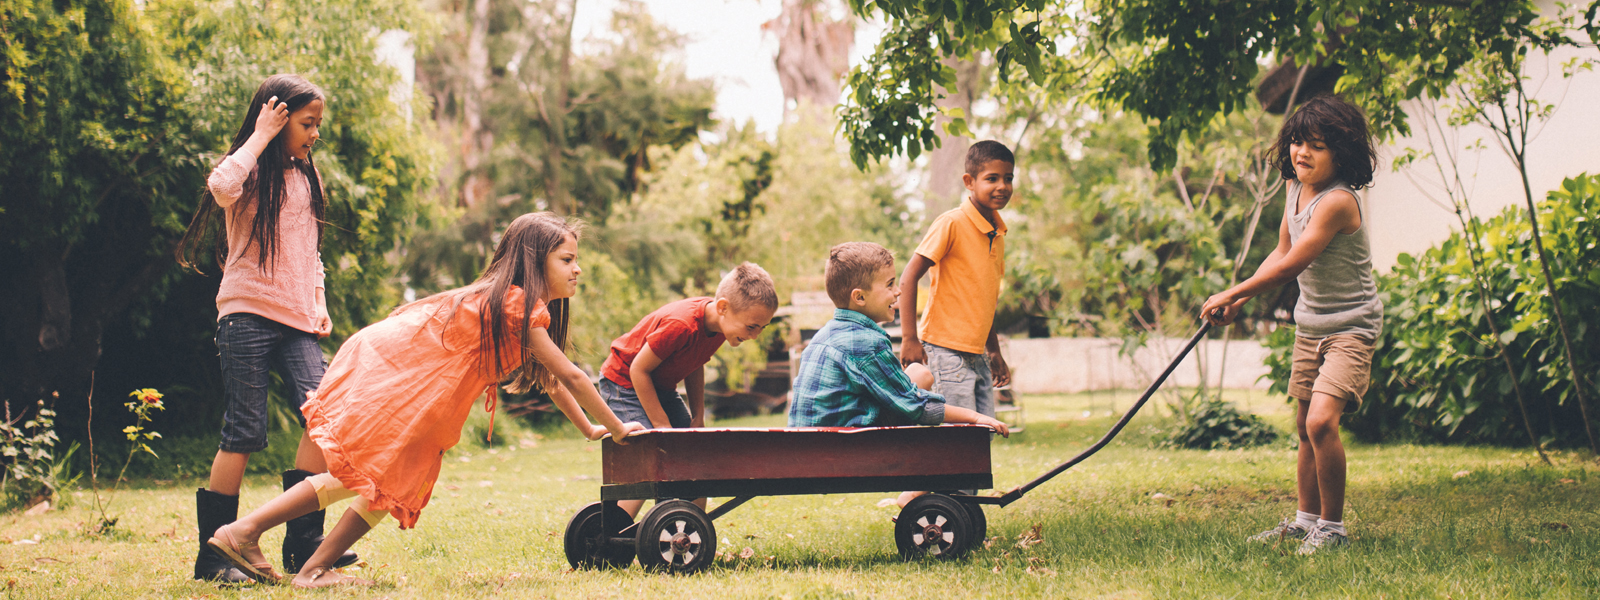
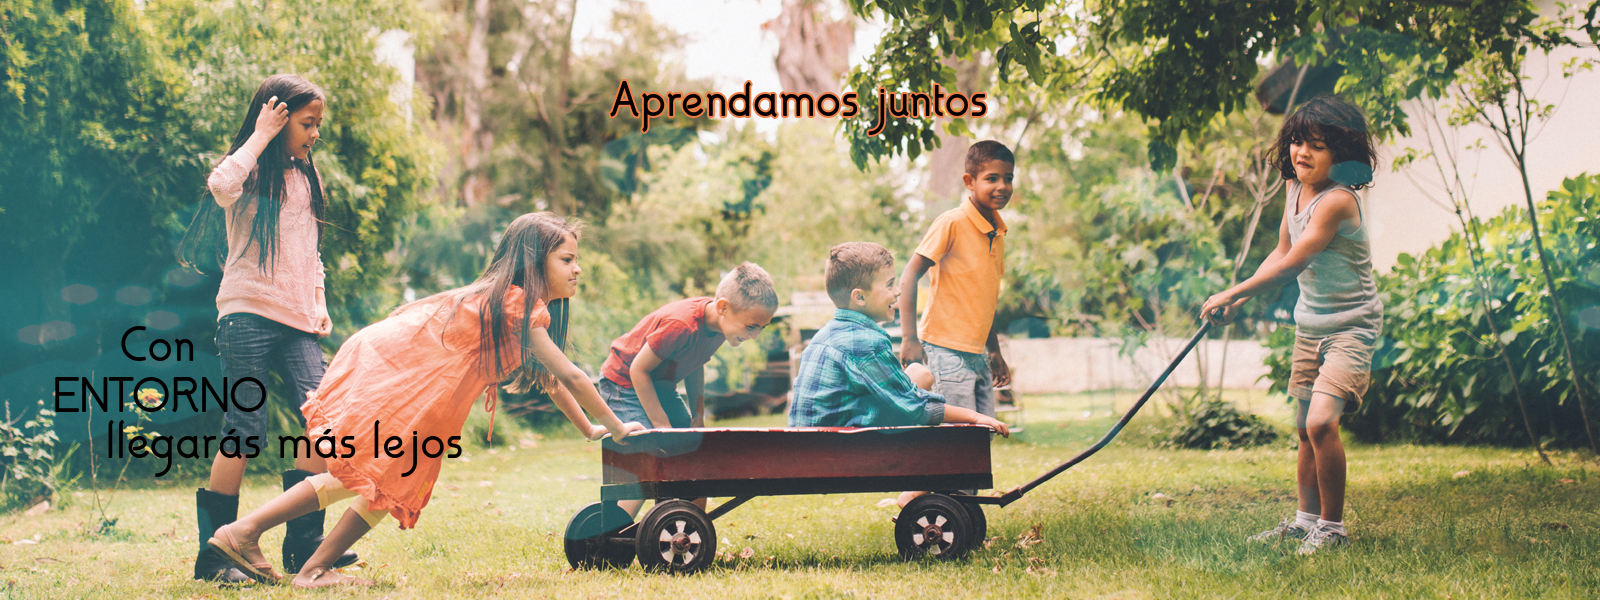
Se subela página terminada

diff --git a/startbootstrap-one-page-wonder-gh-pages/index.html b/startbootstrap-one-page-wonder-gh-pages/index.html
@@ -27,6 +27,7 @@
 <body>
   <!-- Navigation -->
   <nav class="navbar navbar-expand-lg navbar-dark navbar-custom fixed-top">
+  <!-- <nav class="navbar navbar-expand-lg navbar-dark navbar-custom fixed-top"> -->
     <div class="container">
         <img src="./img/Logos Entorno/LogoEntorno.JPG" class="navbar-brand js-scroll-trigger" href="#page-top" style="width: 60px">
       <a class="navbar-brand" href="#">Entorno</a>
@@ -63,7 +64,7 @@
           <img src="./img/imgBanner/Banner2.jpg" class="d-block w-100" alt="...">
         </div>
         <div class="carousel-item">
-          <img src="./img/imgBanner/Banner3.png" class="d-block w-100" alt="...">
+          <img src="./img/imgBanner/Banner3.jpg" class="d-block w-100" alt="...">
         </div>
       </div>
       <a class="carousel-control-prev" href="#carouselExampleIndicators" role="button" data-slide="prev">
@@ -191,9 +192,8 @@
     <br><br>
     </section>
 
-
 <!-- Ofertas de Trabajos online -->  
-  <section class="page-section text-white mb-0" id="trabajo" style="background-color:rebeccapurple;">
+  <section class="page-section text-white mb-0" id="trabajo" style="background-color:orangered;">
     <div class="container">
       <br><br>
       <h1 class="page-section-heading text-center text-uppercase text-white">Busca aquí trabajo</h1>
@@ -211,14 +211,14 @@
               desmarque una puntuación...
           </p>
           <button type="button" class="btn btn-info">
-            <div class="portfolio-item mx-auto" data-toggle="modal" data-target="#portafolioNoticia1">
+            <div class="portfolio-item mx-auto" data-toggle="modal" data-target="#ofertaTrabajo1">
               <h6>Leer más</h6>
             </div>
           </button>
           
         </div>        
       </div>
-      <br><br>
+      <br>
       <!-- Oferta 2 -->
       <div class="row">
         <div class="col-lg-3 ml-auto">
@@ -232,13 +232,13 @@
             un sitio web y la imagen para poder hacer trípticos para entrega física.
           </p>
           <button type="button" class="btn btn-info">
-            <div class="portfolio-item mx-auto" data-toggle="modal" data-target="#portafolioNoticia2">
+            <div class="portfolio-item mx-auto" data-toggle="modal" data-target="#ofertaTrabajo2">
               <h6>Leer más</h6>
             </div>
           </button>
         </div>
       </div>
-      <br><br>
+      <br>
       <!-- OFerta 3 -->
       <div class="row">
           <div class="col-lg-3 ml-auto">
@@ -252,14 +252,13 @@
               Mi empresa necesita conectar bases de datos de clientes con nuestra base de datos central. 
             </p>
             <button type="button" class="btn btn-info">
-                <div class="portfolio-item mx-auto" data-toggle="modal" data-target="#portafolioNoticia3">                
+                <div class="portfolio-item mx-auto" data-toggle="modal" data-target="#ofertaTrabajo3">                
                   <h6>Leer más</h6>
                 </div>
             </button>
           </div>
         </div>        
       </div> 
-      <br>  
       <div class="row">
         <div class="col-lg-7 ml-auto">
           <a href="#" class="btn btn-xl rounded-pill mt-5" style="background-color: #ffffff;">Más ofertas</a>
@@ -289,6 +288,139 @@
         </a>
     </div>
   </footer>
+
+  <!-- Portfolio Modals -->
+  <!-- Portafolio ofertas de trabajo -->
+
+  <!-- Modal de oferta de trabajo 1 -->
+  <div class="portfolio-modal modal fade" id="ofertaTrabajo1" tabindex="-1" role="dialog"
+    aria-labelledby="portfolioModal1Label" aria-hidden="true">
+    <div class="modal-dialog modal-xl" role="document">
+      <div class="modal-content">
+        <button type="button" class="close" data-dismiss="modal" aria-label="Close">
+          <span aria-hidden="true">
+            <i class="fas fa-times"></i>
+          </span>
+        </button>
+        <div class="modal-body text-center">
+          <div class="container">
+            <div class="row justify-content-center">
+              <br>
+              <div class="col-lg-8">
+                <!-- Portfolio Modal - Title -->
+                <h2 class="portfolio-modal-title  mb-0">Desarrollo de formulario en HTML5</h2>
+                <br>
+                <!-- Portfolio Modal - Text -->
+                <h5>
+                  Requiero un desarrollo de un formulario de evaluación con 17 ítems y 5 niveles 
+                  de puntuación para cada ítem, de manera que sea realizado un cálculo automático 
+                  cada vez que se marque o desmarque una puntuación, por lo que las puntuaciones 
+                  pueden estar con un control tipo checkbox. El formulario debe almacenar nombre, 
+                  fecha, hora, ciudad, lugar, y evaluador.
+                  <br>
+                  El objetivo es que 5 evaluadores puedan almacenar las evaluaciones de manera simultánea.
+                  <br>
+                  Se requiere una interfaz para Evaluador y otra para Administrador, donde se puedan visualizar
+                  las puntuaciones almacenadas. Las interfaces deben permitir configurar logotipos o imágenes 
+                  de un evento. Se adjunta una imagen del formulario como una aplicación de Windows.
+                </h5>
+                <br>
+                <h5><strong>Habilidades:</strong> Angular.js, node.js, HTML5, Javascript, NoSQL Couch y Mongo</h5>
+                <br>
+                <button class="btn btn-info">ofertar</button>
+              </div>
+            </div>
+          </div>
+        </div>
+      </div>
+    </div>
+  </div>
+
+  <!-- Modal de oferta de trabajo 2 -->
+  <div class="portfolio-modal modal fade" id="ofertaTrabajo2" tabindex="-1" role="dialog"
+    aria-labelledby="portfolioModal1Label" aria-hidden="true">
+    <div class="modal-dialog modal-xl" role="document">
+      <div class="modal-content">
+        <button type="button" class="close" data-dismiss="modal" aria-label="Close">
+          <span aria-hidden="true">
+            <i class="fas fa-times"></i>
+          </span>
+        </button>
+        <div class="modal-body text-center">
+          <div class="container">
+            <div class="row justify-content-center">
+              <br>
+              <div class="col-lg-8">
+                <!-- Portfolio Modal - Title -->
+                <h2 class="portfolio-modal-title  mb-0">Desarrollo de logo, imagen y website</h2>
+                <br>
+                <!-- Portfolio Modal - Text -->
+                <h5>
+                  Me gustarìa poder hacer con ustedes la imagen de mi empresa, se trata de desarrollar
+                  un logotipo, un sitio web y la imagen para poder hacer trípticos para entrega física.
+                  <br>
+                  sitio web gratuito de cuidado de la piel del logotipo, sitio web de pitbull de diseño
+                  de logotipo, sitio web de imagen de fondo del logotipo, sitio web en línea de logotipo
+                  incorporado, sitio web diferente de diseño de logotipo, sitio web de tipo de revista 
+                  de logotipo wwwfashionandpassioncom, sitio web transparente con aspecto de logotipo, 
+                  vector de sobre ganador del sitio web de oferta de software de logotipo, logotipo 
+                  seguro sitio web de comercio de wordpress, sitio web transparente de fondo de logotipo, 
+                  sitio web médico de diseño de logotipo, sitio web de negocios diseñado con logotipo, 
+                  sitio web convertido de logotipo, sitio web de apartamento de diseño de logotipo abierto ykumar85
+                  <br>                  
+                </h5>
+                <br>
+                <h5><strong>Habilidades:</strong> Diseño gráfico, Diseño de logotipos, Diseño de sitios web, HTML, PHP</h5>
+                <br>
+                <button class="btn btn-info">ofertar</button>
+              </div>
+            </div>
+          </div>
+        </div>
+      </div>
+    </div>
+  </div>
+
+  <!-- Modal de oferta de trabajo 3 -->
+  <div class="portfolio-modal modal fade" id="ofertaTrabajo3" tabindex="-1" role="dialog"
+    aria-labelledby="portfolioModal1Label" aria-hidden="true">
+    <div class="modal-dialog modal-xl" role="document">
+      <div class="modal-content">
+        <button type="button" class="close" data-dismiss="modal" aria-label="Close">
+          <span aria-hidden="true">
+            <i class="fas fa-times"></i>
+          </span>
+        </button>
+        <div class="modal-body text-center">
+          <div class="container">
+            <div class="row justify-content-center">
+              <br>
+              <div class="col-lg-8">
+                <!-- Portfolio Modal - Title -->
+                <h2 class="portfolio-modal-title  mb-0">Gestor de base de datos</h2>
+                <br>
+                <!-- Portfolio Modal - Text -->
+                <h5>
+                  login con base datos sql asp, mantenimiento base datos sql 2005 usando, aplicaciones 
+                  sharp base datos, consultar base datos sql server 2005 desde asp, motor base datos web 
+                  service, manejo base datos sql store procedures, base datos ceticos tacna, conectar base
+                  datos sql server desde, importa base datos homepage maker oscommerce, usando como base 
+                  datos, awk base datos relacional, mantenimiento una base datos sql con asp, net base 
+                  datos oracle red, net trigeer base datos form, base datos borigen betzel, administrador 
+                  base datos oracle bahiablanca, seminario sharp base datos, lenguaje motor base datos,
+                  java aplicacion escritorio base datos, freelancer web y conectar base datos trafico movil.
+                </h5>
+                <br>
+                <h5><strong>Habilidades:</strong> SQL, Administración de bases de datos, Data Integration, Desarrollo de base de datos, Programación de bases de datos, Empleo local, MySQL</h5>
+                <br>
+                <button class="btn btn-info">ofertar</button>
+              </div>
+            </div>
+          </div>
+        </div>
+      </div>
+    </div>
+  </div>
 
   <!-- Bootstrap core JavaScript -->
   <script src="vendor/jquery/jquery.min.js"></script>
